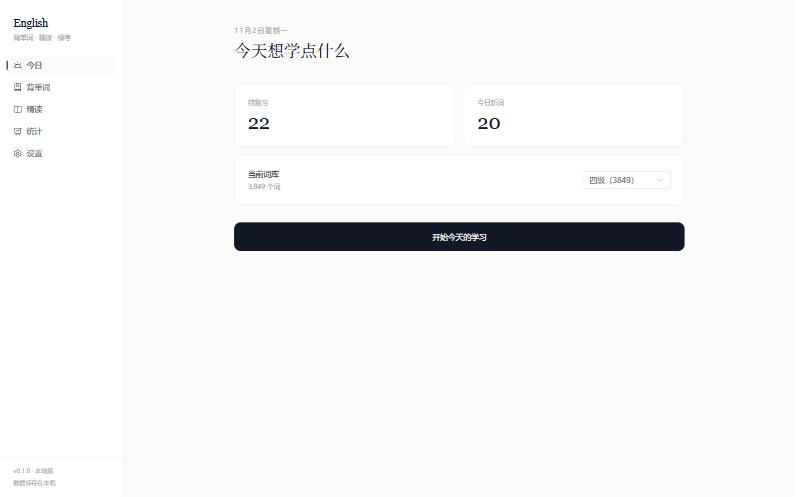
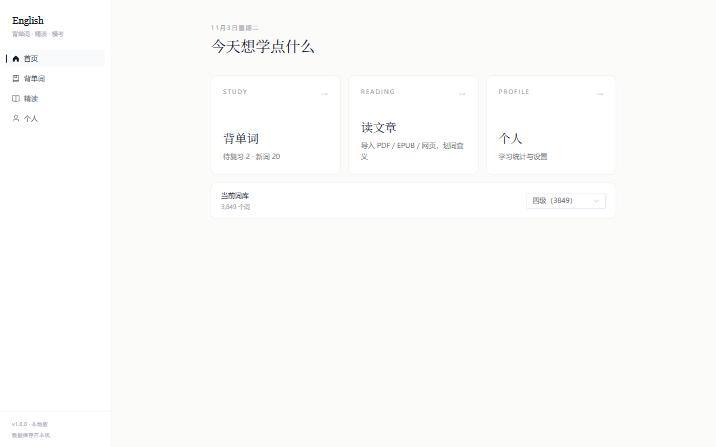
chore: release v1.0.0
三个模块的完整形态：背单词（计划模式 + 沉浸模式）、精读、个人统计与设置。
版本号统一到 1.0.0，README 与截图更新到当前界面。

diff --git a/web/src/components/AppShell.vue b/web/src/components/AppShell.vue
@@ -44,7 +44,7 @@ const activeName = computed(() => {
       </nav>
 
       <div class="hidden border-t px-6 py-4 text-[11px] leading-relaxed text-gray-400 md:block">
-        <div>v0.1.0 · 本地版</div>
+        <div>v1.0.0 · 本地版</div>
         <div class="mt-1">数据保存在本机</div>
       </div>
     </aside>

diff --git a/api/app/main.py b/api/app/main.py
@@ -36,7 +36,7 @@ async def lifespan(_: FastAPI):
     yield
 
 
-app = FastAPI(title="English", version="0.1.0", lifespan=lifespan)
+app = FastAPI(title="English", version="1.0.0", lifespan=lifespan)
 
 
 @app.exception_handler(Exception)

diff --git a/README.md b/README.md
@@ -1,26 +1,29 @@
 # English
 
-跑在自己电脑上的英语学习工具：**背单词 · 精读 · 模考**。
+跑在自己电脑上的英语学习站：**背单词 · 精读 · 学习统计**。
 
 没有账号、没有服务器、不需要 API Key，词库和文章都在本地，断网也能用。
 
-![今日](docs/screenshots/home.jpg)
+![首页](docs/screenshots/home.jpg)
 
 ## 功能
 
 | 模块 | 现在能做什么 |
 |---|---|
-| 背单词 | 内置四六级 / 考研 / 雅思 / 托福 / GRE 词库，卡片翻转、发音、四档评分，空格与 1–4 快捷键，FSRS 间隔重复调度 |
+| 背单词 · 计划模式 | 内置四六级 / 考研 / 雅思 / 托福 / GRE 词库，卡片翻转、发音，FSRS 间隔重复调度；每日新词量与每日复习上限各自可调 |
+| 背单词 · 沉浸模式 | 不设配额，随机抽词：认识的直接跳过、从此不再出现，不认识的看完释义放回池子。进度按词库独立记录，全部掌握后可重新开始 |
 | 精读 | 导入 txt / md / pdf / docx / epub 或直接粘网页链接；行间生词提示；划词查义；一键加入词库；阅读进度自动保存 |
-| 统计 | 每日复习量堆叠柱状图、正确率、已学单词数，7 / 30 / 90 天切换，可切表格视图 |
+| 个人 | 学习统计（复习量曲线、正确率、已学单词）与全部设置合在一页 |
 
-![背单词](docs/screenshots/study.jpg)
+![背单词 · 计划模式](docs/screenshots/study.jpg)
+
+![背单词 · 沉浸模式](docs/screenshots/immersion.jpg)
 
 ![文章库](docs/screenshots/library.jpg)
 
 ![精读](docs/screenshots/reader.jpg)
 
-![统计](docs/screenshots/stats.jpg)
+![个人](docs/screenshots/profile.jpg)
 
 ## 快速开始
 
@@ -123,21 +126,28 @@ Windows 上在 `%APPDATA%\english-app\`：
 
 **PowerShell 不让执行脚本** —— 用 `powershell -ExecutionPolicy Bypass -File .\xxx.ps1`。
 
-## 当前进度
+**提示「database disk image is malformed」** —— 数据库文件损坏了。关掉应用，删掉 `%APPDATA%\english-app\data\english.db`（连同同目录下的 `english.db-wal`、`english.db-shm`），再运行 `npm run seed` 重新导入词库即可，词库三分钟就能重建。学习记录会丢，词库不会。
+
+**同时开了两个服务进程** —— 别这么做。启动器自己会找空闲端口，但两个进程写同一个数据库容易出问题。
+
+## 版本
+
+**v1.0.0** — 三个模块的完整形态：
 
 - [x] 项目骨架、启动器、数据模型、Alembic 迁移
 - [x] ECDICT 词库导入与内置词库过滤
-- [x] 背单词卡片、四档评分、快捷键、FSRS 调度（第二周）
-- [x] 学习统计页
-- [x] 精读：多格式解析、生词注释、划词查义、加入词库（第三周）
-- [x] 异常处理、移动端可用、生产构建与单进程托管（第四周）
-- [ ] 30 秒演示录屏
-- [ ] 做题模块（v0.2）
+- [x] 背单词：计划模式（FSRS 调度、新词与复习配额）、沉浸模式（随机抽词、按词库记录进度）
+- [x] 精读：多格式解析、生词注释、划词查义、加入词库
+- [x] 个人页：学习统计与设置
+- [x] 异常处理、移动端可用、生产构建与单进程托管
+- [ ] 情景模式、做题模块（后续版本）
 
 ## 技术选择说明
 
 - **一个进程、一个端口**：FastAPI 同时托管 API 和前端构建产物，启动器不用管两个进程。
 - **数据不放仓库**：放在 `%APPDATA%`，`git pull` 不会误删学习记录。
+- **两套背诵互不干扰**：计划模式走 FSRS 复习队列，沉浸模式用独立的随机抽词算法，数据分别存在 `user_word` 和 `immersion_word`。
+- **沉浸模式按词库记账**：同一个词在 CET4 跳过，不算 CET6 已掌握——两个词库重合约九成，按词记账会让重置一个库清掉另一个库的进度。
 - **所有解析器输出同一种结构**：新增格式不用改前端。
 - **不做全文翻译**：左右对照时人会直接读中文、跳过英文，对语言学习是负作用。
 - **不渲染 PDF 原版面**：目标是把内容变成可选择的文本，不是复刻排版。
